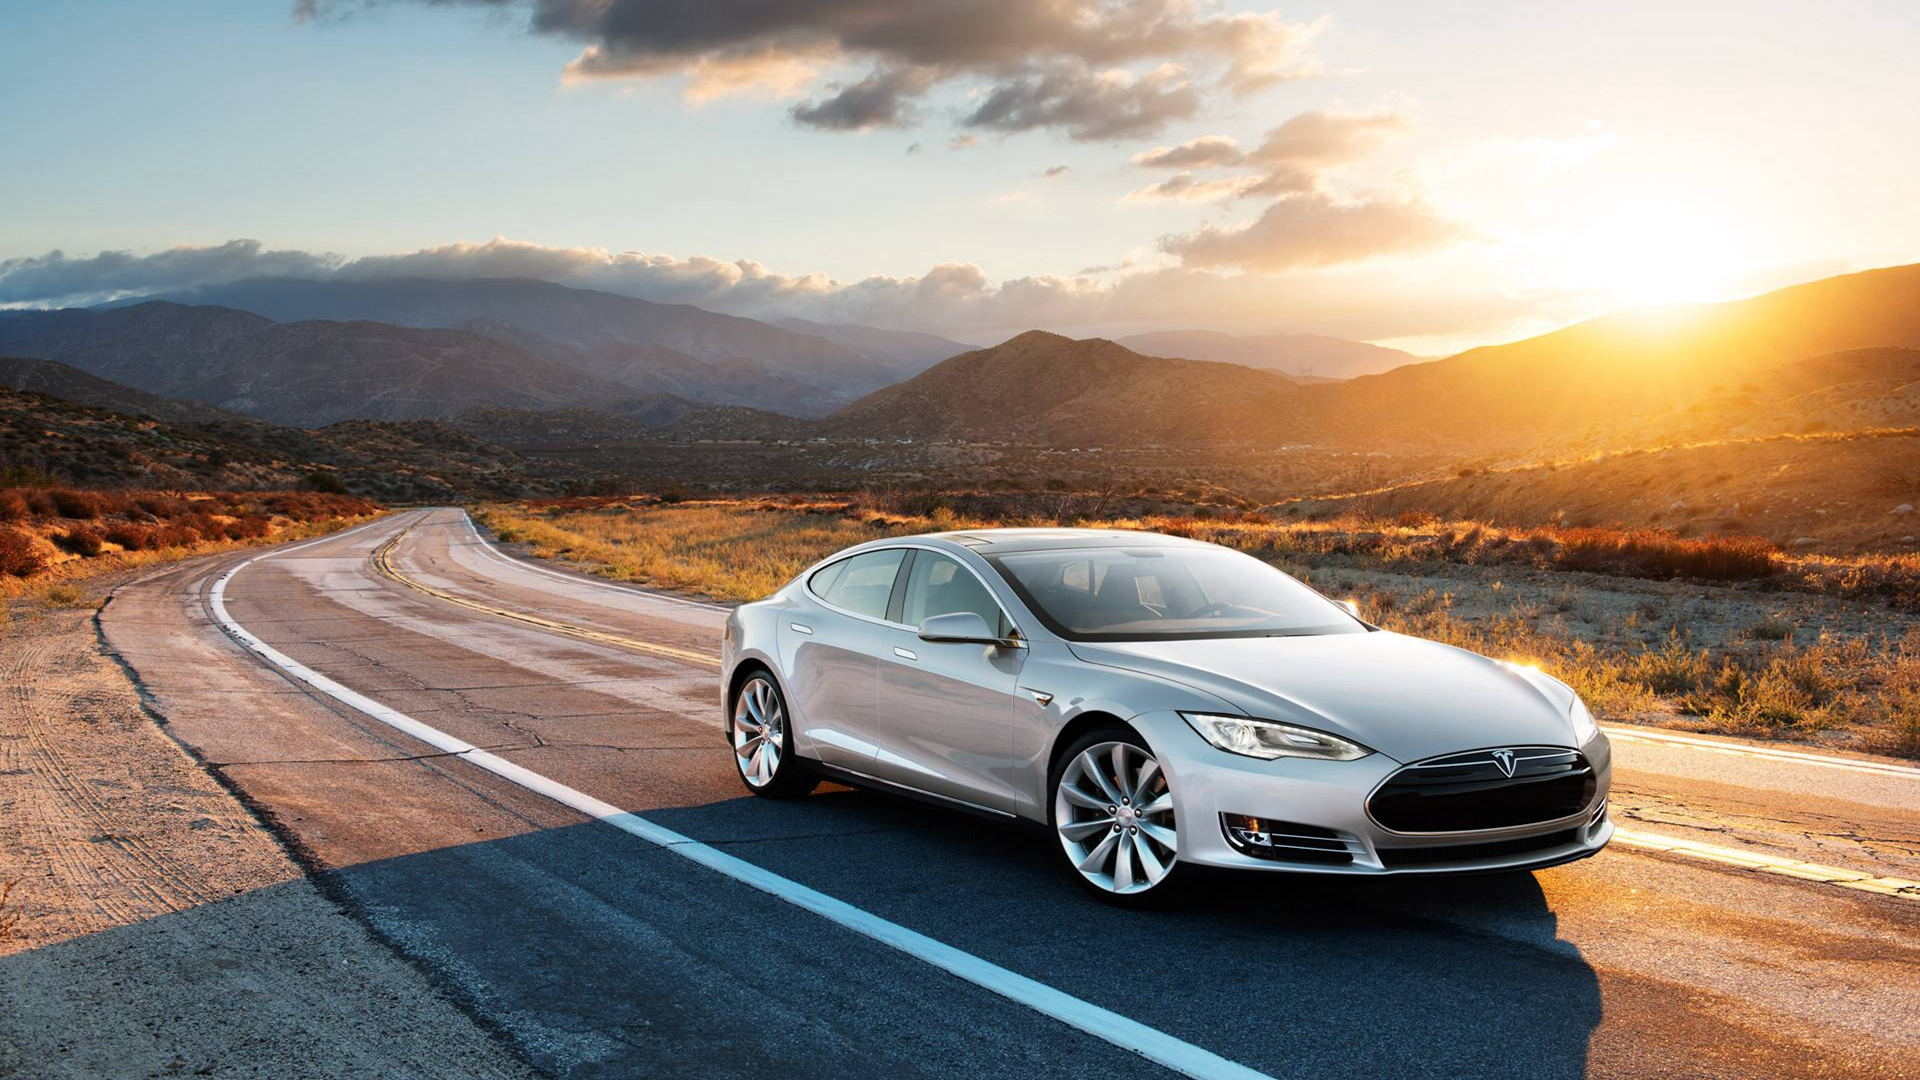
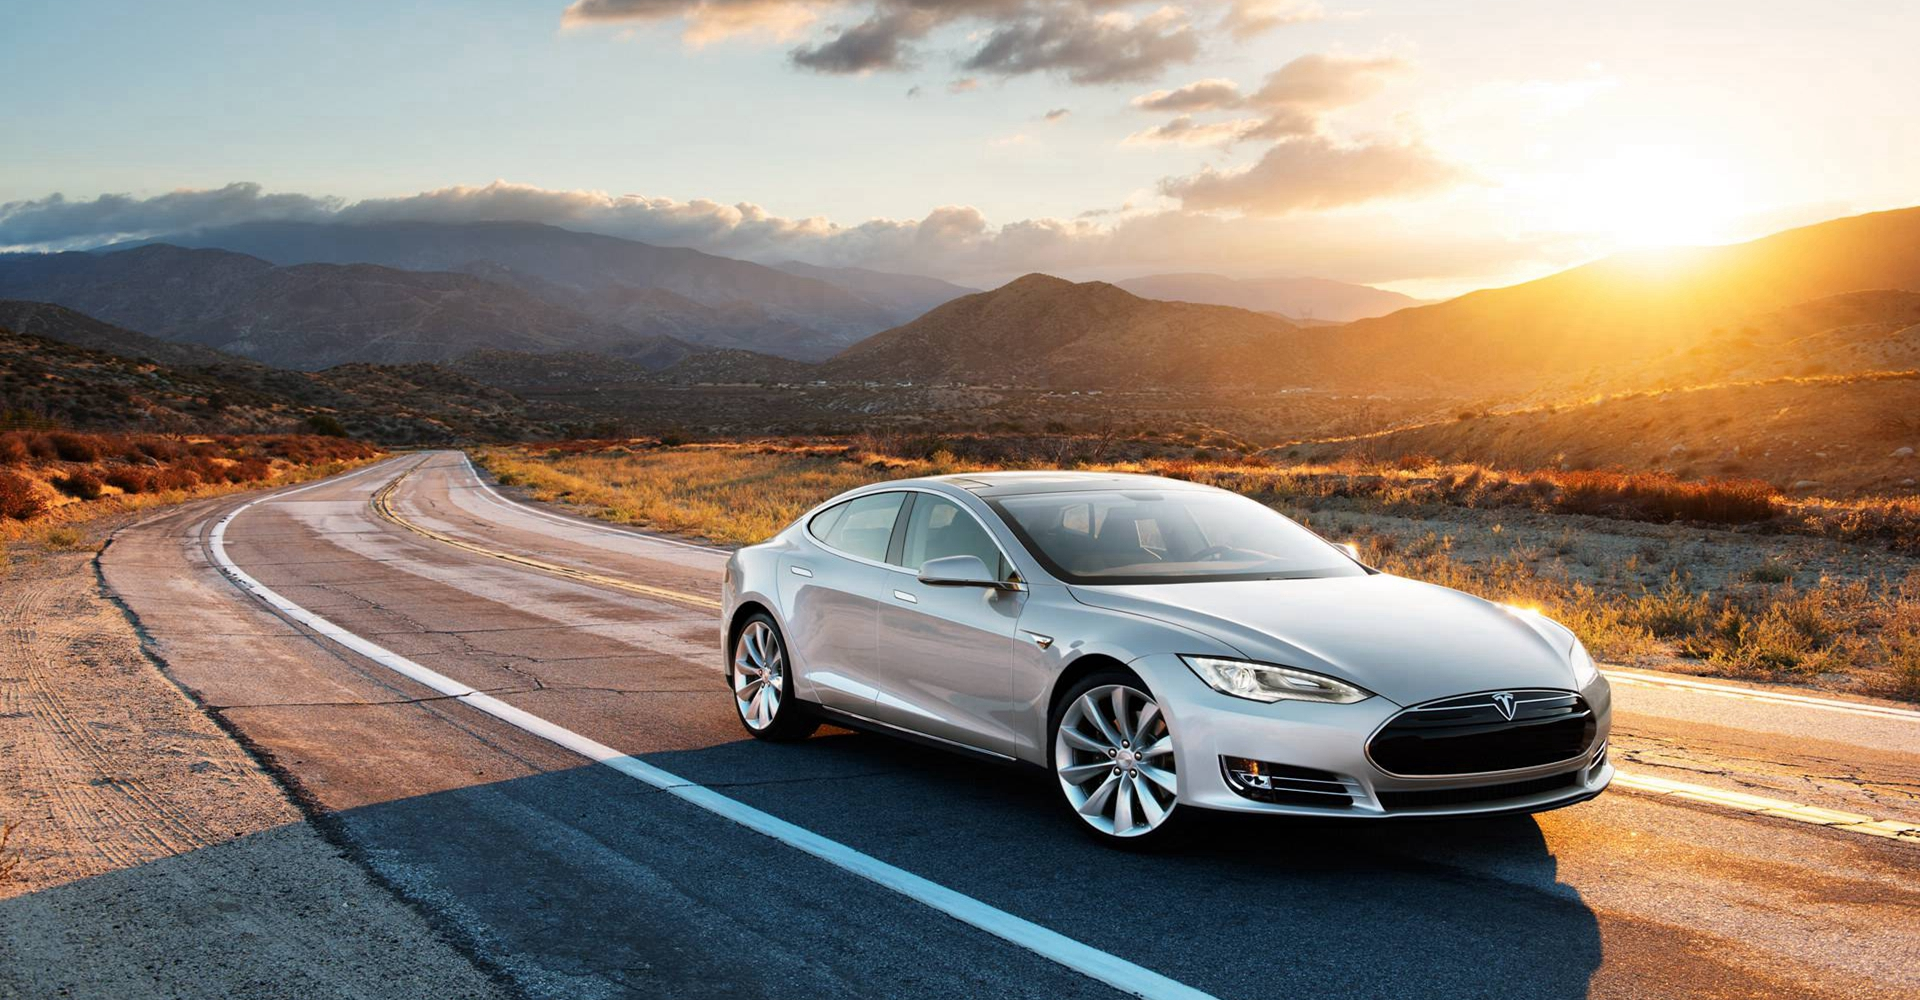
detail had finish!

diff --git a/css/style.css b/css/style.css
@@ -2,7 +2,7 @@
 * @Author: 劲博
 * @Date:   2017-02-25 01:11:44
 * @Last Modified by:   劲博
-* @Last Modified time: 2017-02-25 16:23:18
+* @Last Modified time: 2017-02-25 23:48:14
 */
 *{
 	margin: 0px;
@@ -10,21 +10,21 @@
 }
 body{
 	background-image:url(../image/bg.jpg);
-	width: 100%;
-	height: 100%;
-	background-size:100% ;
+	background-attachment: fixed;
+	background-size:100% 100%;
 	overflow:hidden;
 	background-repeat: no-repeat;
+	
+	
 }
 .search-box{
-	position: absolute;
-	float: left;
-	top: 30%;
-	right: 30%;
-	/*background-color: blue;*/
 	height: 80px;
 	width: 658px;
-}
+	position:absolute;  
+   left:50%;  
+   top:50%;  
+   margin:-100px 0 0 -329px 
+} 
 img{
 	float: left;
 }

diff --git a/js/script.js b/js/script.js
@@ -15,7 +15,7 @@ $(document).ready(function () {
 			position:'absolute'
 		});
 		},'json');
-
+			
 		
 	});
 	//当鼠标点别的地方，提示弹出框隐藏
